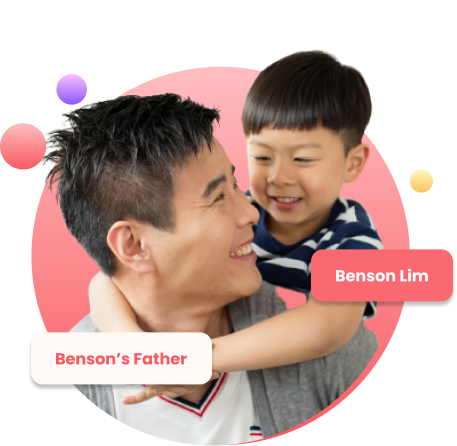
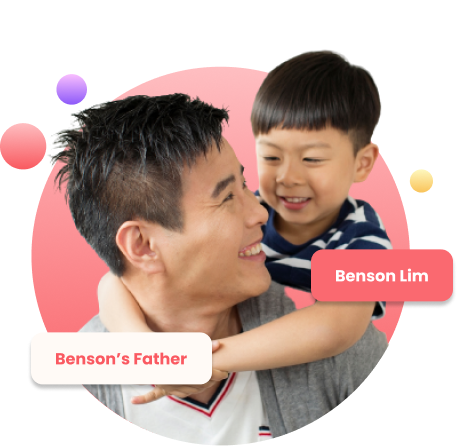
Replace third review image

diff --git a/index.html b/index.html
@@ -86,8 +86,11 @@
     <section>
 <!-- BANNER -->
 <div class="cream-bg">
-    <div class="container cream-bg">
+    <div class="container cream-bg wrap">
         <div class="row align-items-center">
+            <div class="col-md-6 wrap order-md-last">
+                <img src="imgs/home/banner.png" />
+            </div>
             <div class="col-md-6">
                 <div class="flex-row">
                     <h1>Investing in 
@@ -100,25 +103,21 @@
                     <p>
                         Enjoy 2 lessons <b>FREE</b> for first time sign-up
                     </p>
-                    <button type="button" class="btn btn-unfilled-red">Request a Tutor</button>
-                    <button type="button" class="btn btn-filled-red">Request a Tutor</button>
+                    <a href="request.html" class="btn btn-unfilled-red" >Explore Packages</a>
+                    <a href="request.html" class="btn btn-filled-red">Request a Tutor</a>
                 </div>
-            </div>
-
-            <div class="col-md-6 wrap">
-                <img src="imgs/home/banner.png" />
             </div>
         </div>
     </div>
 </div>
 <!-- Why Smart Tuition -->
-    <div class="container icon-48">
+    <div class="container icon-48 ">
         <div class="row align-items-center">
-            <div class="col-lg-4">
+            <div class="col-lg-4 wrap">
                 <h2 class="title">Why Choose <br />
                     <span class="emphasize">Smart Tuition</span></h2>
                 <h6>Let us help you find your path to success</h6>
-                <button class="btn btn-filled-red" onclick="location.href='loans.html'">Read about us</button>
+                <a href="request.html" class="btn btn-filled-red">Read about us</a>
             </div>
             <div class="col-lg-8 wrap" style="margin: 12px 0">
                 <div class="row">
@@ -172,7 +171,7 @@
                     <h2 class="title">Achieve Your Child’s <span class="emphasize">Potential</span></h2>
                     <h6>Be it language, science, or math, we are here to help your child achieve to the best of their ability.</h6>
                 </div>
-                <div class="row  align-items-center">
+                <div class="row align-items-center">
                     <div class="col-4">
                         <h1 class="emphasize">13.8k+</h1>
                         <p>Enrolled Students</p>
@@ -200,15 +199,15 @@
 
         <div class="row align-items-center wrap">
             <div class="col-md-4 programme" style="text-align: center;">
-                <a href="#"><img src="imgs/home/programme-1.png">
+                <a href="primary.html"><img src="imgs/home/programme-1.png">
                 <h6>Primary</h6></a>
             </div>
             <div class="col-md-4 programme" style="text-align: center;">
-                <a href="#"><img src="imgs/home/programme-2.png">
+                <a href="lowersec.html"><img src="imgs/home/programme-2.png">
                 <h6>Lower Secondary</h6></a>
             </div>
             <div class="col-md-4 programme" style="text-align: center;">
-                <a href="#"><img src="imgs/home/programme-3.png">
+                <a href="uppersec.html"><img src="imgs/home/programme-3.png">
                 <h6>Upper Secondary</h6></a>
             </div>
         </div>
@@ -216,13 +215,13 @@
 
 <!-- Review -->
 <div class="cream-bg">
-    <div class="container">
+    <div class="container ">
                 <!-- Item 1 -->
                 <div class="row align-items-center  wrap">
-                    <div class="col-md-4">
+                    <div class="col-md-5">
                         <img src="imgs/home/review-1.png" />
                     </div>
-                    <div class="col-md-8">
+                    <div class="col-md-7">
                         <div class="flex-row">
                             <h2 class="title">Sparking Curiousity to<span class="emphasize"> Excel</span></h1>
                             <p>“Alice went from uninterested student to an enthusiastic and excited learner. The caring and experienced tutors in SG Tutors helped my child to achieve more than just an A, they sparked Alice’s natural curiosity in math and science.”</p>
@@ -234,24 +233,24 @@
                 <!-- Item 2 -->
                 <div class="row align-items-center  wrap">
 
-                    <div class="col-md-8">
-                        <div class="flex-row">
-                            <h2 class="title">Adapting to<span class="emphasize"> Excel</span></h1>
-                            <p>"Learning is different now and Aly has had to adapt. Without face-to-face interaction, the kids have to really focus on listening to what the teachers are saying. Sometimes she gets a little frustrated because she can’t speak up when the teacher or another classmate is talking but she has learned to be patient and use the time to get her questions in order."</p>
-                            <p><strong>Mrs Jamie Yeo</strong><br />Parent of Aly Yeo (Sec 2 English Student)</p>
-                            </div>
-                        </div>
-
-                        <div class="col-md-4">
+                        <div class="col-md-5 order-md-last">
                             <img src="imgs/home/review-2.png" />
                         </div>
+                        <div class="col-md-7">
+                            <div class="flex-row">
+                                <h2 class="title">Adapting to<span class="emphasize"> Excel</span></h1>
+                                <p>"Learning is different now and Aly has had to adapt. Without face-to-face interaction, the kids have to really focus on listening to what the teachers are saying. Sometimes she gets a little frustrated because she can’t speak up when the teacher or another classmate is talking but she has learned to be patient and use the time to get her questions in order."</p>
+                                <p><strong>Mrs Jamie Yeo</strong><br />Parent of Aly Yeo (Sec 2 English Student)</p>
+                                </div>
+                            </div>
+    
                  </div>
                 <!-- Item 3 -->
-                <div class="row align-items-center  wrap">
-                    <div class="col-md-4">
+                <div class="row align-items-center ">
+                    <div class="col-md-5">
                         <img src="imgs/home/review-3.png" />
                     </div>
-                    <div class="col-md-8">
+                    <div class="col-md-7">
                         <div class="flex-row">
                             <h2 class="title">Motivated to<span class="emphasize"> Excel</span></h1>
                             <p>"My son is taking English tuition at TLL with Mr Daniel Lim. Although his lessons are now online because of the COVID-19 crisis, my son still enjoyed his lessons very much. Mr Daniel has a dynamic approach to teaching and he is very motivated. He is not only a great tutor, he has a great commitment towards his students and is always well prepared."</p>
